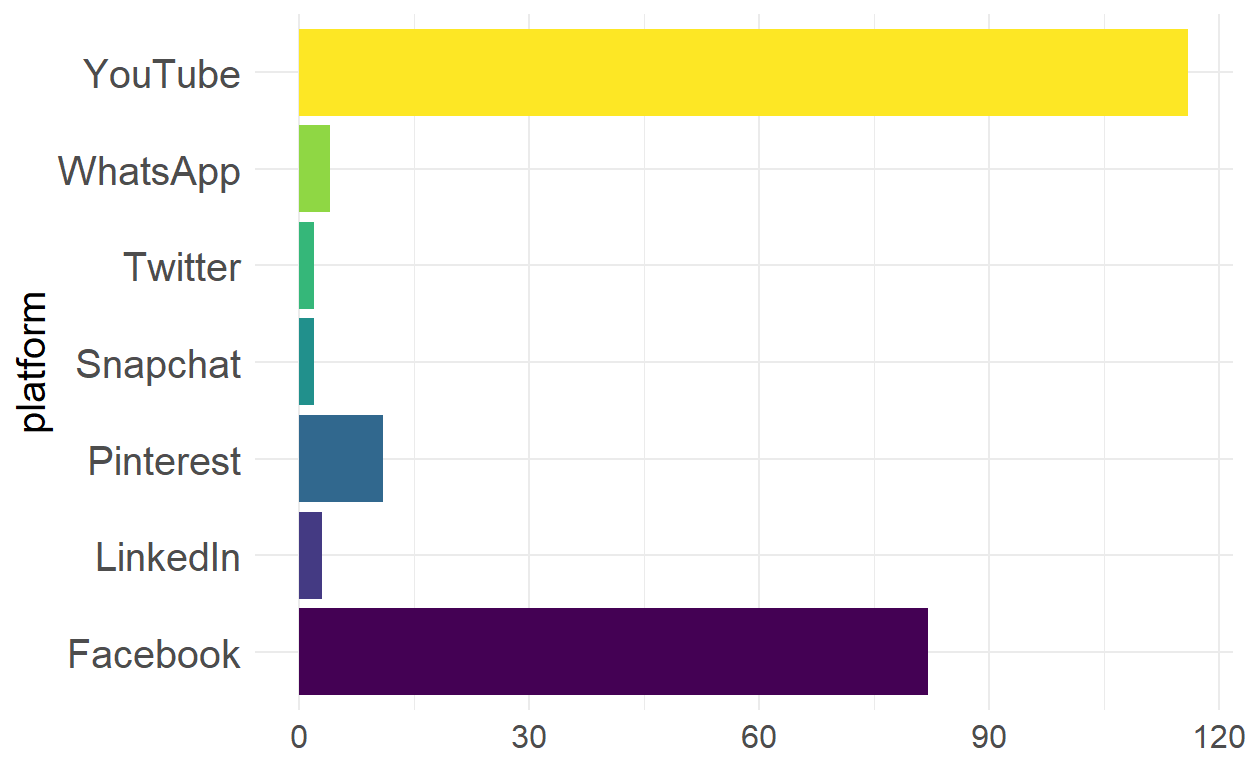
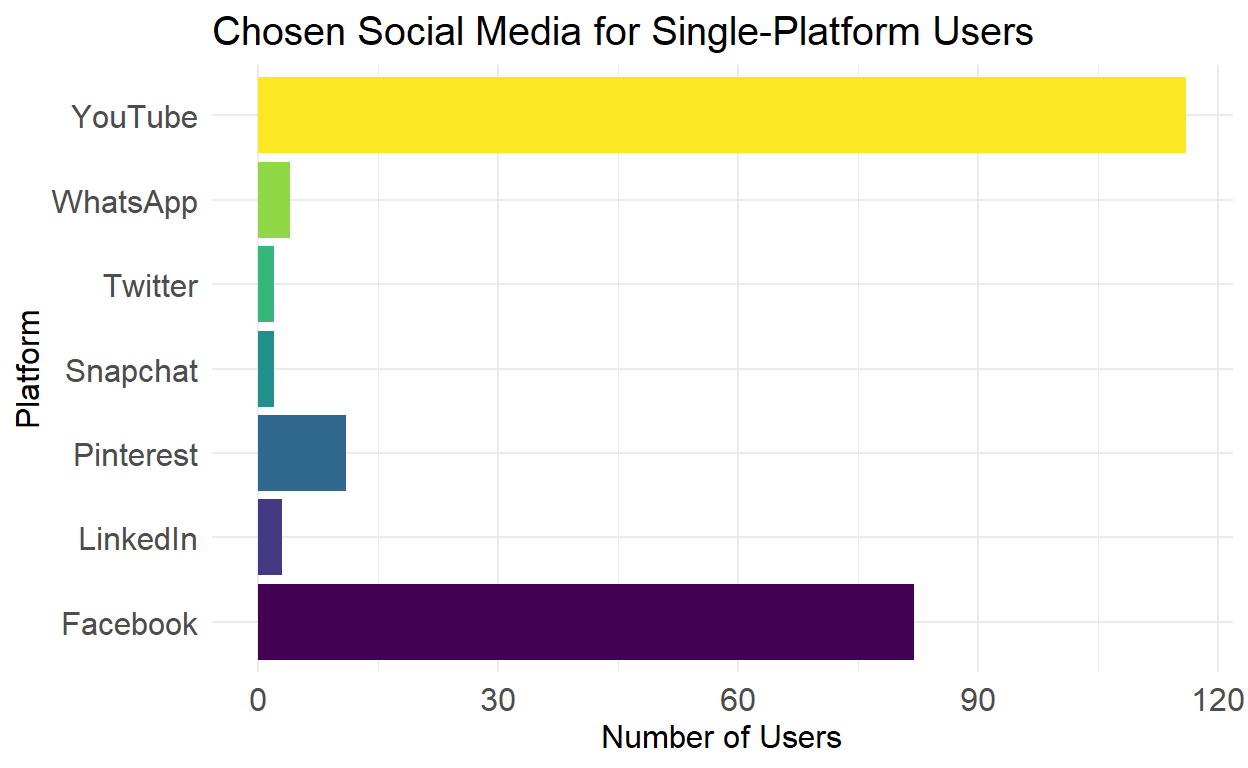
Order of posts

diff --git a/docs/posts/2019-03-17-single-platform-users/index.html b/docs/posts/2019-03-17-single-platform-users/index.html
@@ -19,7 +19,7 @@
  <!--/radix_placeholder_import_source-->
 
   <!--radix_placeholder_meta_tags-->
-<title>Social Media Habits and Attitudes of US Adults: Chose Social Media for Single-Platform Users</title>
+<title>Social Media Habits and Attitudes of US Adults: Chosen Social Media for Single-Platform Users</title>
 
 <meta property="description" itemprop="description" content="For pepole that only engage with one social media platform, which platform do they choose?"/>
 
@@ -30,7 +30,7 @@
 <meta name="article:author" content="Cianna Bedford-Petersen"/>
 
 <!--  https://developers.facebook.com/docs/sharing/webmasters#markup -->
-<meta property="og:title" content="Social Media Habits and Attitudes of US Adults: Chose Social Media for Single-Platform Users"/>
+<meta property="og:title" content="Social Media Habits and Attitudes of US Adults: Chosen Social Media for Single-Platform Users"/>
 <meta property="og:type" content="article"/>
 <meta property="og:description" content="For pepole that only engage with one social media platform, which platform do they choose?"/>
 <meta property="og:locale" content="en_US"/>
@@ -38,14 +38,14 @@
 
 <!--  https://dev.twitter.com/cards/types/summary -->
 <meta property="twitter:card" content="summary"/>
-<meta property="twitter:title" content="Social Media Habits and Attitudes of US Adults: Chose Social Media for Single-Platform Users"/>
+<meta property="twitter:title" content="Social Media Habits and Attitudes of US Adults: Chosen Social Media for Single-Platform Users"/>
 <meta property="twitter:description" content="For pepole that only engage with one social media platform, which platform do they choose?"/>
 
 <!--/radix_placeholder_meta_tags-->
   <!--radix_placeholder_rmarkdown_metadata-->
 
 <script type="text/json" id="radix-rmarkdown-metadata">
-{"type":"list","attributes":{"names":{"type":"character","attributes":{},"value":["title","description","author","date","output"]}},"value":[{"type":"character","attributes":{},"value":["Chose Social Media for Single-Platform Users"]},{"type":"character","attributes":{},"value":["For pepole that only engage with one social media platform, which platform do they choose?"]},{"type":"list","attributes":{},"value":[{"type":"list","attributes":{"names":{"type":"character","attributes":{},"value":["name","url"]}},"value":[{"type":"character","attributes":{},"value":["Cianna Bedford-Petersen"]},{"type":"list","attributes":{"names":{"type":"character","attributes":{},"value":[]}},"value":[]}]}]},{"type":"character","attributes":{},"value":["03-17-2019"]},{"type":"list","attributes":{"names":{"type":"character","attributes":{},"value":["distill::distill_article"]}},"value":[{"type":"list","attributes":{"names":{"type":"character","attributes":{},"value":["self_contained"]}},"value":[{"type":"logical","attributes":{},"value":[false]}]}]}]}
+{"type":"list","attributes":{"names":{"type":"character","attributes":{},"value":["title","description","author","date","output"]}},"value":[{"type":"character","attributes":{},"value":["Chosen Social Media for Single-Platform Users"]},{"type":"character","attributes":{},"value":["For pepole that only engage with one social media platform, which platform do they choose?"]},{"type":"list","attributes":{},"value":[{"type":"list","attributes":{"names":{"type":"character","attributes":{},"value":["name","url"]}},"value":[{"type":"character","attributes":{},"value":["Cianna Bedford-Petersen"]},{"type":"list","attributes":{"names":{"type":"character","attributes":{},"value":[]}},"value":[]}]}]},{"type":"character","attributes":{},"value":["03-17-2019"]},{"type":"list","attributes":{"names":{"type":"character","attributes":{},"value":["distill::distill_article"]}},"value":[{"type":"list","attributes":{"names":{"type":"character","attributes":{},"value":["self_contained"]}},"value":[{"type":"logical","attributes":{},"value":[false]}]}]}]}
 </script>
 <!--/radix_placeholder_rmarkdown_metadata-->
   
@@ -1280,7 +1280,7 @@ document.addEventListener('DOMContentLoaded', function() {
 <!--radix_placeholder_front_matter-->
 
 <script id="distill-front-matter" type="text/json">
-{"title":"Chose Social Media for Single-Platform Users","description":"For pepole that only engage with one social media platform, which platform do they choose?","authors":[{"author":"Cianna Bedford-Petersen","authorURL":{},"affiliation":"&nbsp;","affiliationURL":"#"}],"publishedDate":"2019-03-17T00:00:00.000-07:00","citationText":"Bedford-Petersen, 2019"}
+{"title":"Chosen Social Media for Single-Platform Users","description":"For pepole that only engage with one social media platform, which platform do they choose?","authors":[{"author":"Cianna Bedford-Petersen","authorURL":{},"affiliation":"&nbsp;","affiliationURL":"#"}],"publishedDate":"2019-03-17T00:00:00.000-07:00","citationText":"Bedford-Petersen, 2019"}
 </script>
 
 <!--/radix_placeholder_front_matter-->
@@ -1302,7 +1302,7 @@ document.addEventListener('DOMContentLoaded', function() {
 <!--/radix_placeholder_site_before_body-->
 
 <div class="d-title">
-<h1>Chose Social Media for Single-Platform Users</h1>
+<h1>Chosen Social Media for Single-Platform Users</h1>
 <p>For pepole that only engage with one social media platform, which platform do they choose?</p>
 </div>
 
@@ -1321,11 +1321,11 @@ document.addEventListener('DOMContentLoaded', function() {
 <div class="layout-chunk" data-layout="l-body">
 <p><img src="single-platform-users_files/figure-html5/plot%203%20second%20iteration-1.png" width="624" /></p>
 </div>
-<p>This plot looks really clean and gives us a good idea of which platforms are the most popular with single-platform users. However, using the actual number of participants gives us a lot of squares to look at. It may be more visually appealing and interpretable to make a visualization of proportions.</p>
+<p>This plot looks really clean and gives us a good idea of which platforms are the most popular with single-platform users. However, using the actual number of participants gives us a lot of squares to look at. It may be more visually appealing and interpretable to make a visualization of proportions with a 10 x 10 plot.</p>
 <div class="layout-chunk" data-layout="l-body">
 <p><img src="single-platform-users_files/figure-html5/plot%203%20thrid%20iteration-1.png" width="624" /></p>
 </div>
-<p>Now our plot is looking really clean! It is easy to see that YouTube and Facebook are the overwhelming favorites of single-platform users. We can also make some more nuanced interpretations from this plot. For example, of the lesser chosen platforms Pinterest was used by twice as many participants as WhatsApp and four times as many participants as LinkedIn, Snapchat, or Twitter.</p>
+<p>Now our plot is looking really clean! It is easy to see that YouTube and Facebook are the overwhelming favorites of single-platform users. We can also make some more nuanced interpretations from this plot. For example, of the lesser chosen platforms, Pinterest was used by twice as many participants as WhatsApp and four times as many participants as LinkedIn, Snapchat, or Twitter.</p>
 <!--radix_placeholder_article_footer-->
 <!--/radix_placeholder_article_footer-->
 </div>

diff --git a/_posts/2019-03-17-single-platform-users/single-platform-users.html b/_posts/2019-03-17-single-platform-users/single-platform-users.html
@@ -19,7 +19,7 @@
  <!--/radix_placeholder_import_source-->
 
   <!--radix_placeholder_meta_tags-->
-  <title>Chose Social Media for Single-Platform Users</title>
+  <title>Chosen Social Media for Single-Platform Users</title>
   
   <meta property="description" itemprop="description" content="For pepole that only engage with one social media platform, which platform do they choose?"/>
   
@@ -30,21 +30,21 @@
   <meta name="article:author" content="Cianna Bedford-Petersen"/>
   
   <!--  https://developers.facebook.com/docs/sharing/webmasters#markup -->
-  <meta property="og:title" content="Chose Social Media for Single-Platform Users"/>
+  <meta property="og:title" content="Chosen Social Media for Single-Platform Users"/>
   <meta property="og:type" content="article"/>
   <meta property="og:description" content="For pepole that only engage with one social media platform, which platform do they choose?"/>
   <meta property="og:locale" content="en_US"/>
   
   <!--  https://dev.twitter.com/cards/types/summary -->
   <meta property="twitter:card" content="summary"/>
-  <meta property="twitter:title" content="Chose Social Media for Single-Platform Users"/>
+  <meta property="twitter:title" content="Chosen Social Media for Single-Platform Users"/>
   <meta property="twitter:description" content="For pepole that only engage with one social media platform, which platform do they choose?"/>
   
   <!--/radix_placeholder_meta_tags-->
   <!--radix_placeholder_rmarkdown_metadata-->
   
   <script type="text/json" id="radix-rmarkdown-metadata">
-  {"type":"list","attributes":{"names":{"type":"character","attributes":{},"value":["title","description","author","date","output"]}},"value":[{"type":"character","attributes":{},"value":["Chose Social Media for Single-Platform Users"]},{"type":"character","attributes":{},"value":["For pepole that only engage with one social media platform, which platform do they choose?\n"]},{"type":"list","attributes":{},"value":[{"type":"list","attributes":{"names":{"type":"character","attributes":{},"value":["name","url"]}},"value":[{"type":"character","attributes":{},"value":["Cianna Bedford-Petersen"]},{"type":"list","attributes":{"names":{"type":"character","attributes":{},"value":[]}},"value":[]}]}]},{"type":"character","attributes":{},"value":["03-17-2019"]},{"type":"list","attributes":{"names":{"type":"character","attributes":{},"value":["distill::distill_article"]}},"value":[{"type":"list","attributes":{"names":{"type":"character","attributes":{},"value":["self_contained"]}},"value":[{"type":"logical","attributes":{},"value":[false]}]}]}]}
+  {"type":"list","attributes":{"names":{"type":"character","attributes":{},"value":["title","description","author","date","output"]}},"value":[{"type":"character","attributes":{},"value":["Chosen Social Media for Single-Platform Users"]},{"type":"character","attributes":{},"value":["For pepole that only engage with one social media platform, which platform do they choose?\n"]},{"type":"list","attributes":{},"value":[{"type":"list","attributes":{"names":{"type":"character","attributes":{},"value":["name","url"]}},"value":[{"type":"character","attributes":{},"value":["Cianna Bedford-Petersen"]},{"type":"list","attributes":{"names":{"type":"character","attributes":{},"value":[]}},"value":[]}]}]},{"type":"character","attributes":{},"value":["03-17-2019"]},{"type":"list","attributes":{"names":{"type":"character","attributes":{},"value":["distill::distill_article"]}},"value":[{"type":"list","attributes":{"names":{"type":"character","attributes":{},"value":["self_contained"]}},"value":[{"type":"logical","attributes":{},"value":[false]}]}]}]}
   </script>
   <!--/radix_placeholder_rmarkdown_metadata-->
   
@@ -942,7 +942,7 @@
 <!--radix_placeholder_front_matter-->
 
 <script id="distill-front-matter" type="text/json">
-{"title":"Chose Social Media for Single-Platform Users","description":"For pepole that only engage with one social media platform, which platform do they choose?","authors":[{"author":"Cianna Bedford-Petersen","authorURL":{},"affiliation":"&nbsp;","affiliationURL":"#"}],"publishedDate":"2019-03-17T00:00:00.000-07:00","citationText":"Bedford-Petersen, 2019"}
+{"title":"Chosen Social Media for Single-Platform Users","description":"For pepole that only engage with one social media platform, which platform do they choose?","authors":[{"author":"Cianna Bedford-Petersen","authorURL":{},"affiliation":"&nbsp;","affiliationURL":"#"}],"publishedDate":"2019-03-17T00:00:00.000-07:00","citationText":"Bedford-Petersen, 2019"}
 </script>
 
 <!--/radix_placeholder_front_matter-->
@@ -952,7 +952,7 @@
 <!--/radix_placeholder_site_before_body-->
 
 <div class="d-title">
-<h1>Chose Social Media for Single-Platform Users</h1>
+<h1>Chosen Social Media for Single-Platform Users</h1>
 <p>For pepole that only engage with one social media platform, which platform do they choose?</p>
 </div>
 
@@ -971,11 +971,11 @@
 <div class="layout-chunk" data-layout="l-body">
 <p><img src="single-platform-users_files/figure-html5/plot%203%20second%20iteration-1.png" width="624" /></p>
 </div>
-<p>This plot looks really clean and gives us a good idea of which platforms are the most popular with single-platform users. However, using the actual number of participants gives us a lot of squares to look at. It may be more visually appealing and interpretable to make a visualization of proportions.</p>
+<p>This plot looks really clean and gives us a good idea of which platforms are the most popular with single-platform users. However, using the actual number of participants gives us a lot of squares to look at. It may be more visually appealing and interpretable to make a visualization of proportions with a 10 x 10 plot.</p>
 <div class="layout-chunk" data-layout="l-body">
 <p><img src="single-platform-users_files/figure-html5/plot%203%20thrid%20iteration-1.png" width="624" /></p>
 </div>
-<p>Now our plot is looking really clean! It is easy to see that YouTube and Facebook are the overwhelming favorites of single-platform users. We can also make some more nuanced interpretations from this plot. For example, of the lesser chosen platforms Pinterest was used by twice as many participants as WhatsApp and four times as many participants as LinkedIn, Snapchat, or Twitter.</p>
+<p>Now our plot is looking really clean! It is easy to see that YouTube and Facebook are the overwhelming favorites of single-platform users. We can also make some more nuanced interpretations from this plot. For example, of the lesser chosen platforms, Pinterest was used by twice as many participants as WhatsApp and four times as many participants as LinkedIn, Snapchat, or Twitter.</p>
 <!--radix_placeholder_article_footer-->
 <!--/radix_placeholder_article_footer-->
 </div>

diff --git a/docs/index.html b/docs/index.html
@@ -1618,7 +1618,7 @@ function init_posts_list() {
 <img/>
 </div>
 <div class="description">
-<h2>Chose Social Media for Single-Platform Users</h2>
+<h2>Chosen Social Media for Single-Platform Users</h2>
 <p>For pepole that only engage with one social media platform, which platform do they choose?</p>
 </div>
 </a>
